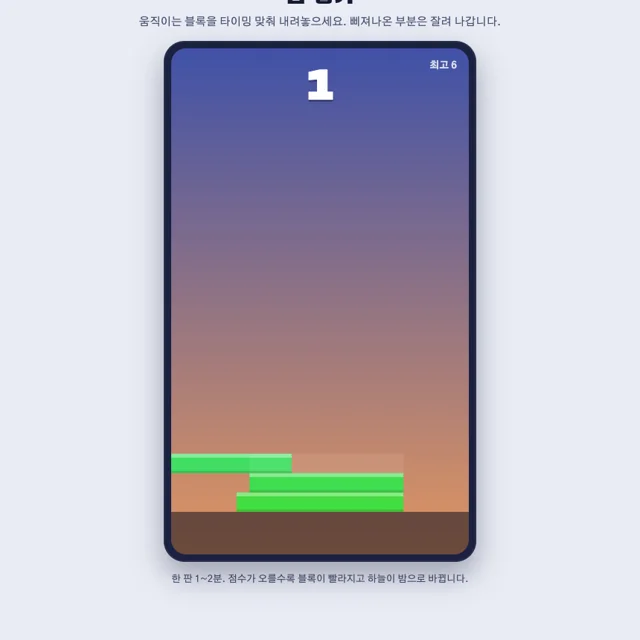
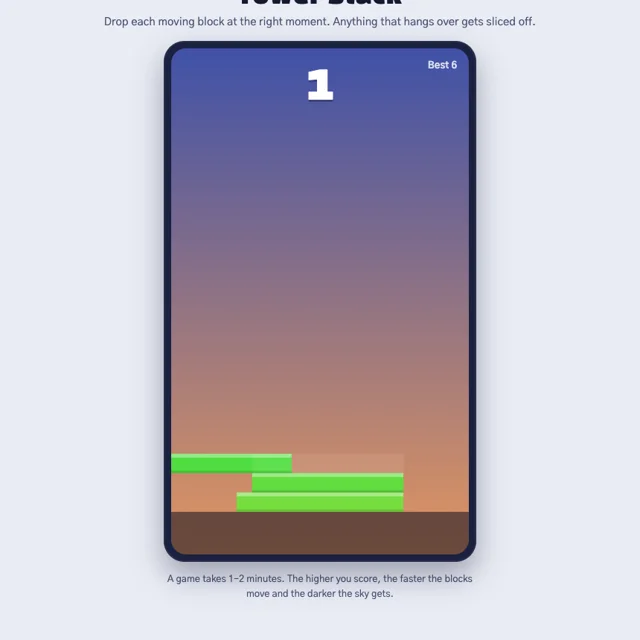
Tower Stack v2: all game text in English (request #7)

diff --git a/games/tower-stack/index.html b/games/tower-stack/index.html
@@ -1,17 +1,17 @@
 <!DOCTYPE html>
-<html lang="ko">
+<html lang="en">
 <head><script src="../guard.js"></script>
 <meta charset="utf-8">
 <meta name="viewport" content="width=device-width,initial-scale=1">
-<title>탑 쌓기</title>
+<title>Tower Stack</title>
 <link rel="preconnect" href="https://fonts.googleapis.com">
 <link href="https://fonts.googleapis.com/css2?family=Black+Han+Sans&family=Gothic+A1:wght@400;700&display=swap" rel="stylesheet">
 <style>
-/* VOICE: 가볍고 손맛 있는 아케이드, 짬 시간용
-   IDEA: 노을에서 밤하늘로 올라가는 탑 — 높이 쌓을수록 하늘색이 바뀜
-   PICTURE: 게임 화면 자체가 그림, 휴대폰 화면 같은 세로 케이스
-   COLOUR and TYPE: 깊은 남색 바탕, 블록은 층마다 색이 흐름; Black Han Sans 점수, Gothic A1 본문
-   LAYOUT: 작은 제목 아래 세로 게임판 하나, 점수는 판 위에 크게 */
+/* VOICE: light, snappy arcade for a quick break
+   IDEA: a tower rising from sunset into the night sky; the sky changes as it grows
+   PICTURE: the game screen itself, in a tall phone-like case
+   COLOUR and TYPE: deep navy; block colours flow floor by floor; Black Han Sans score, Gothic A1 text
+   LAYOUT: small title over one tall board, big score on the board */
 :root{color-scheme:light dark;--bg:light-dark(#e9ecf5,#0c0f1d);--ink:light-dark(#141a2e,#eef1fb);--sub:light-dark(#4a5373,#9aa3c4);--case:light-dark(#1b2140,#05070f)}
 :root[data-theme=light]{color-scheme:light}:root[data-theme=dark]{color-scheme:dark}
 *{box-sizing:border-box;min-width:0}
@@ -38,21 +38,21 @@ canvas{position:absolute;inset:0;width:100%;height:100%;display:block}
 </style>
 </head>
 <body>
-<h1>탑 쌓기</h1>
-<p class="sub">움직이는 블록을 타이밍 맞춰 내려놓으세요. 삐져나온 부분은 잘려 나갑니다.</p>
+<h1>Tower Stack</h1>
+<p class="sub">Drop each moving block at the right moment. Anything that hangs over gets sliced off.</p>
 <div class="case">
   <div class="screen" id="screen">
     <canvas id="cv"></canvas>
-    <div class="best" id="best">최고 0</div>
-    <div class="hud"><div class="score" id="score">0</div><div class="combo" id="combo">퍼펙트!</div></div>
+    <div class="best" id="best">Best 0</div>
+    <div class="hud"><div class="score" id="score">0</div><div class="combo" id="combo">Perfect!</div></div>
     <div class="overlay" id="ov">
-      <h2 id="ovTitle">탑 쌓기</h2>
-      <p id="ovText">화면을 탭하거나 스페이스바를 눌러 블록을 떨어뜨리세요. 딱 맞추면 퍼펙트, 3연속이면 블록이 다시 넓어져요.</p>
-      <button class="btn" id="startBtn" type="button">시작</button>
+      <h2 id="ovTitle">Tower Stack</h2>
+      <p id="ovText">Tap the screen or press Space to drop the block. Line it up exactly for a Perfect. Three Perfects in a row and the block grows wider again.</p>
+      <button class="btn" id="startBtn" type="button">Start</button>
     </div>
   </div>
 </div>
-<p class="tips">한 판 1~2분. 점수가 오를수록 블록이 빨라지고 하늘이 밤으로 바뀝니다.</p>
+<p class="tips">A game takes 1–2 minutes. The higher you score, the faster the blocks move and the darker the sky gets.</p>
 <script>
 {
 const cv=document.getElementById('cv'),ctx=cv.getContext('2d'),screen=document.getElementById('screen');
@@ -62,7 +62,7 @@ const reduce=matchMedia('(prefers-reduced-motion: reduce)').matches;
 let W=0,H=0,dpr=1,BH=28,BASEW=200;
 let stack=[],cur=null,debris=[],ripples=[],state='ready',score=0,combo=0,camY=0,camT=0,hue0=0,best=0,shake=0;
 try{best=+localStorage.getItem('stackBest')||0}catch(e){}
-bestEl.textContent='최고 '+best;
+bestEl.textContent='Best '+best;
 
 function size(){
   const r=screen.getBoundingClientRect();dpr=Math.min(devicePixelRatio||1,2);
@@ -106,7 +106,7 @@ function drop(){
     if(combo>=3&&nw<BASEW){const g=Math.min(BASEW-nw,W*0.04);nx-=g/2;nw+=g}
     stack.push({x:nx,w:nw});ripples.push({x:nx,w:nw,i:stack.length-1,t:0});
     beep(520+Math.min(combo,12)*60,.18,'sine');
-    comboEl.textContent=combo>=2?`퍼펙트 ×${combo}`:'퍼펙트!';comboEl.classList.add('on');
+    comboEl.textContent=combo>=2?`Perfect ×${combo}`:'Perfect!';comboEl.classList.add('on');
     score+=1+(combo>=3?1:0);
   }else{
     combo=0;comboEl.classList.remove('on');
@@ -125,11 +125,11 @@ function start(){
 function end(){
   state='over';endAt=performance.now();comboEl.classList.remove('on');shake=reduce?0:10;beep(140,.4,'sawtooth');
   const isBest=score>best;
-  if(isBest){best=score;try{localStorage.setItem('stackBest',best)}catch(e){}bestEl.textContent='최고 '+best}
+  if(isBest){best=score;try{localStorage.setItem('stackBest',best)}catch(e){}bestEl.textContent='Best '+best}
   setTimeout(()=>{
-    ovTitle.textContent=isBest&&score>0?'신기록!':'무너졌다';
-    ovText.textContent=`${score}층까지 쌓았어요. 최고 기록은 ${best}층.`;
-    startBtn.textContent='다시 하기';ov.classList.remove('hide');
+    ovTitle.textContent=isBest&&score>0?'New record!':'It fell!';
+    ovText.textContent=`You stacked ${score} ${score===1?'floor':'floors'}. Your best is ${best}.`;
+    startBtn.textContent='Play again';ov.classList.remove('hide');
   },650);
 }
 
